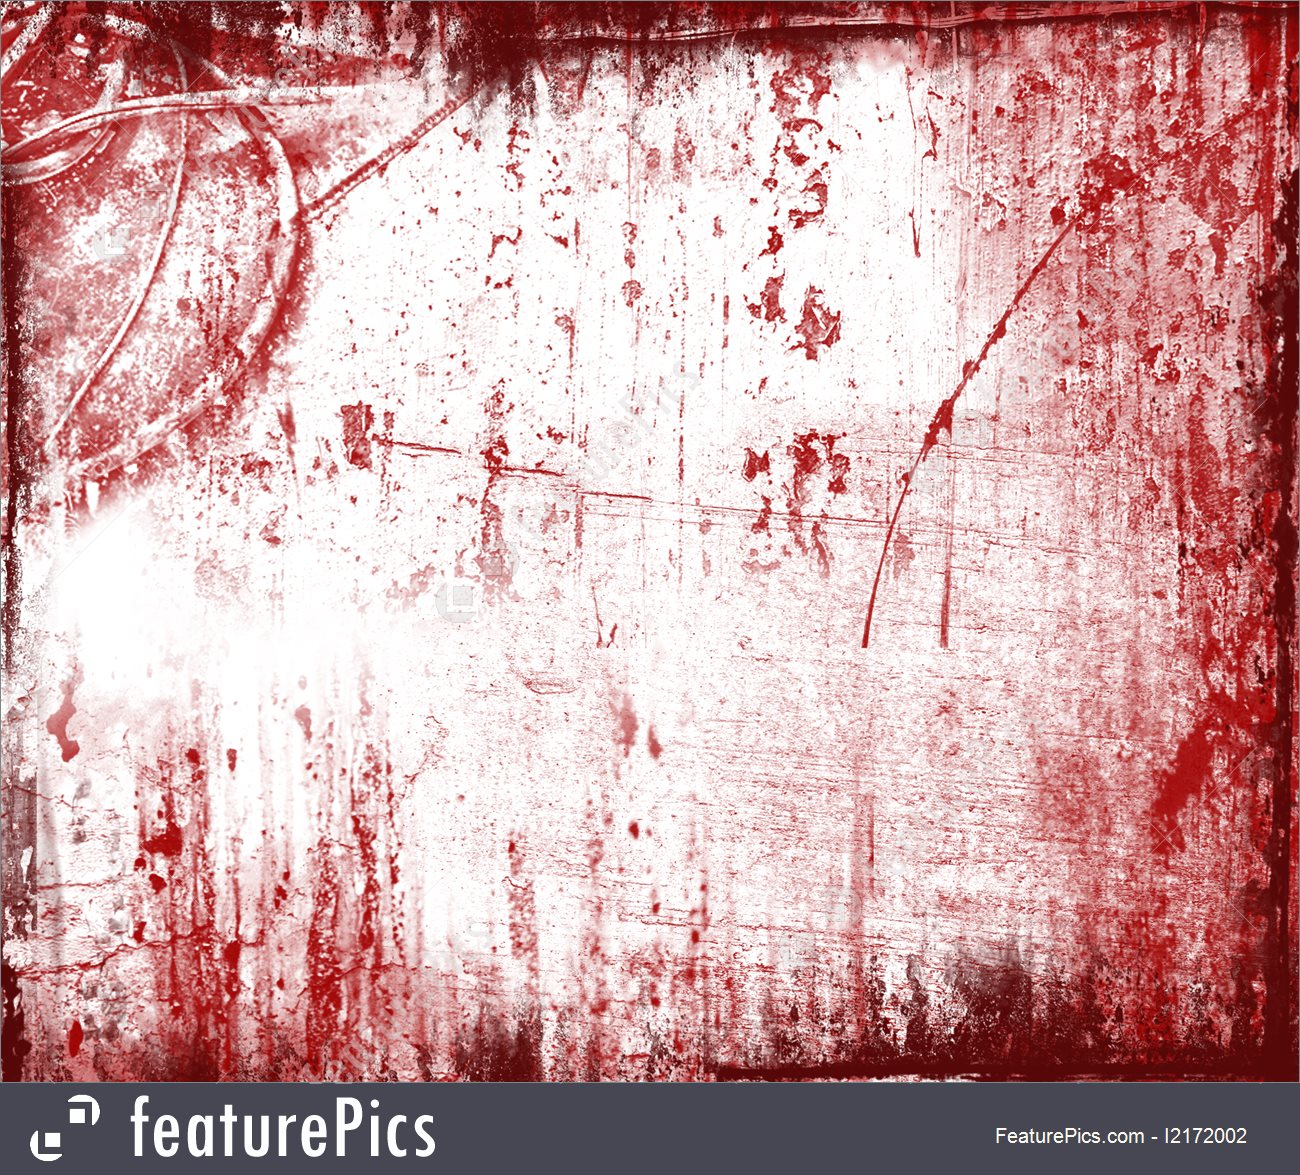
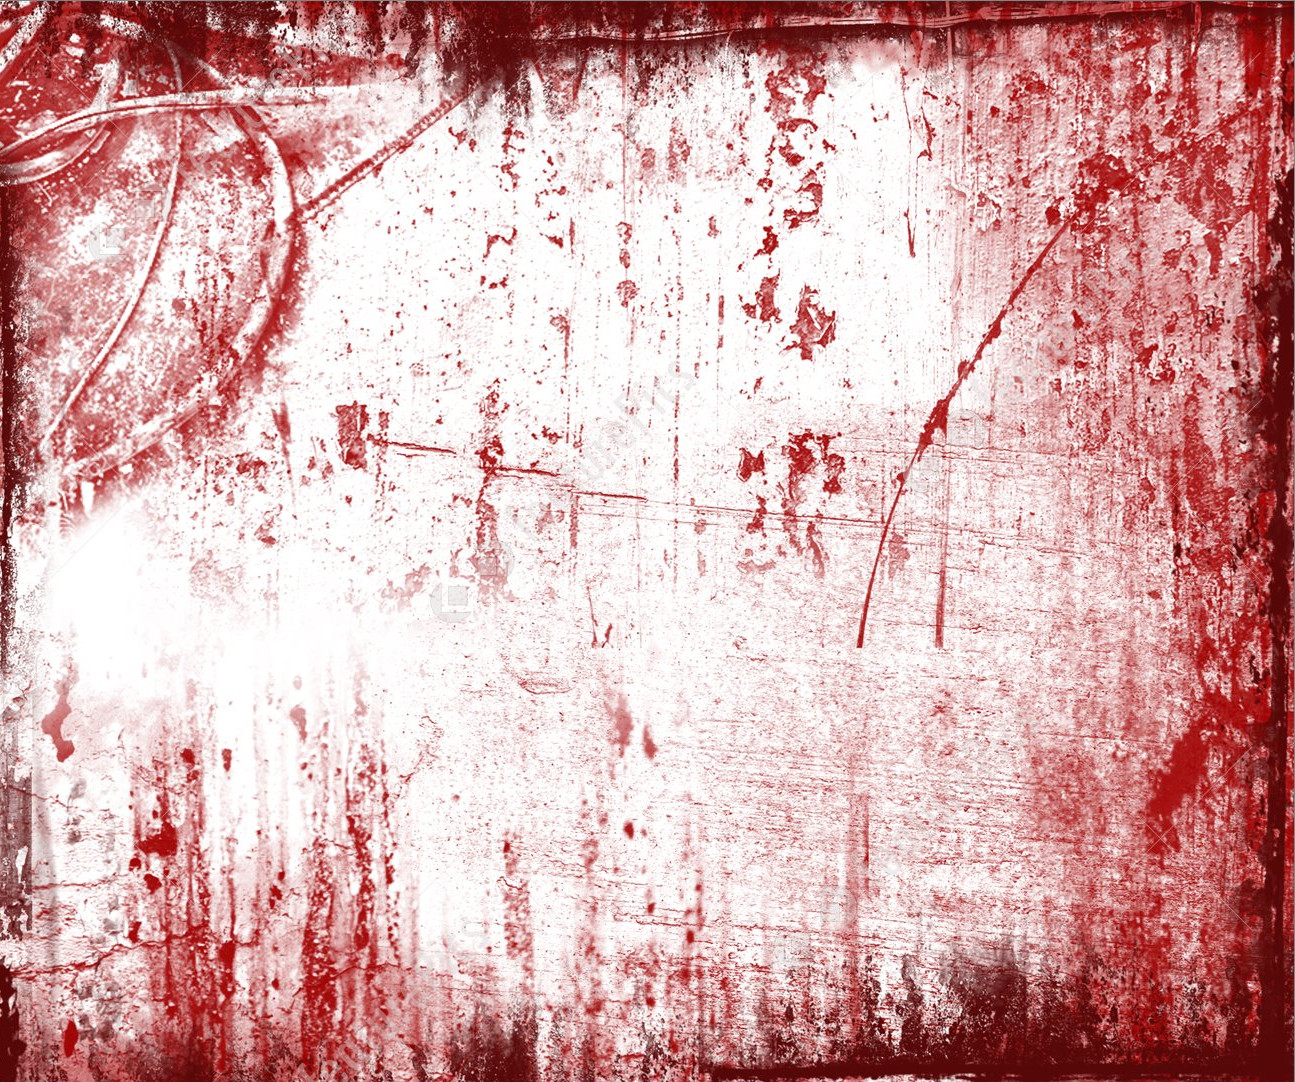
removed border on bottom of background pic

diff --git a/index.html b/index.html
@@ -26,6 +26,7 @@
 				<div class="container">
 					<article id="mainImgHP">
 							<img src="img/hacksaw-main.jpg" alt="Main Hacksaw">
+							<div><p>Latest products you might like:</p></div>
 							<div id="newProdImgs">
 								<div><img src="img/hacksaw1.jpg" alt="Hacksaw 1"></div>
 								<img src="img/hacksaw2.jpg" alt="Hacksaw 2">

diff --git a/main.css b/main.css
@@ -54,7 +54,7 @@ nav a {
 	padding: 2em 1em;
 	background-color: rgba(0, 0, 0, 0.75);
 	box-shadow: 0 0 50px 10px rgba(0,0,0, .8);
-	height: 100vh;
+	/*height: 100vh;*/
 }
 
 .article-image {

diff --git a/home.css b/home.css
@@ -8,4 +8,7 @@
 	justify-content: space-between;
 	flex-wrap: wrap;
 	flex-basis: auto;
+	padding-top: 20px
+	color: white;
 }
+
